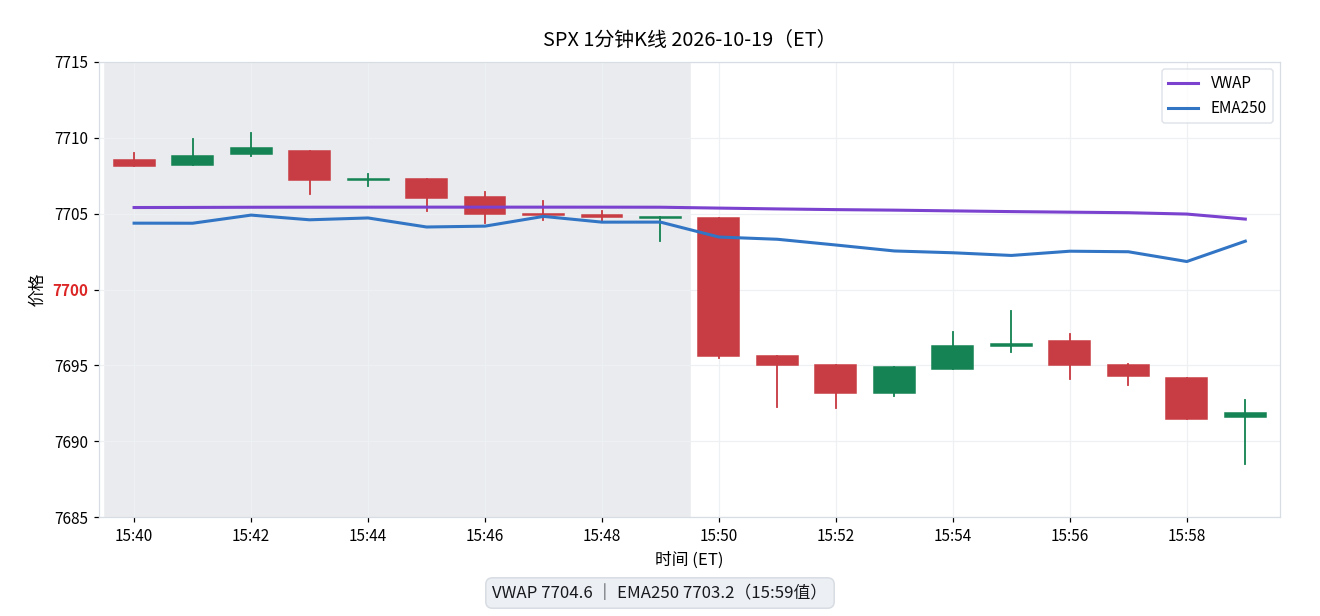
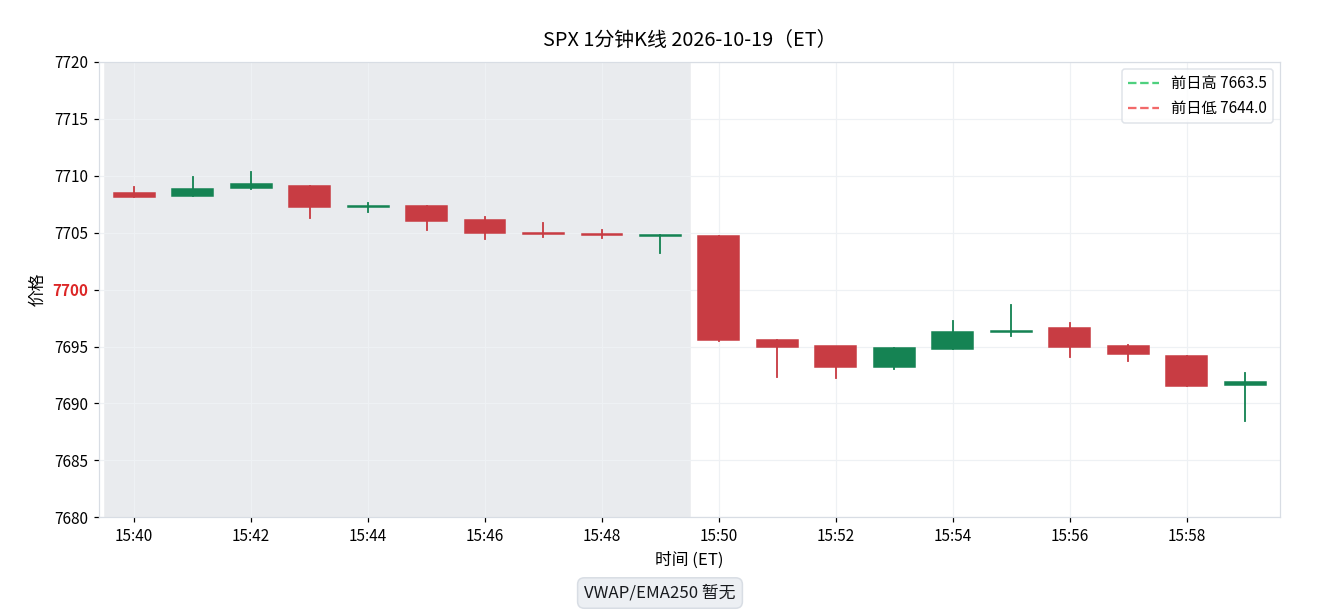
restore spx-10min days.json date list

diff --git a/tsla/index.html b/tsla/index.html
@@ -54,55 +54,55 @@
 <a class="day-tab" role="tab" data-target="day-1014" aria-selected="false" href="#day-1014">10/14 周三 <span class="tab-move down">7.57</span></a>
 <a class="day-tab" role="tab" data-target="day-1013" aria-selected="false" href="#day-1013">10/13 周二 <span class="tab-move up">5.75</span></a>
 <a class="day-tab" role="tab" data-target="day-1012" aria-selected="false" href="#day-1012">10/12 周一 <span class="tab-move down">5.03</span></a>
-<a class="day-tab" role="tab" data-target="day-1009" aria-selected="false" href="#day-1009">10/9 周五</a>
-<a class="day-tab" role="tab" data-target="day-1008" aria-selected="false" href="#day-1008">10/8 周四 <span class="tab-solar">寒露</span></a>
-<a class="day-tab" role="tab" data-target="day-1007" aria-selected="false" href="#day-1007">10/7 周三</a>
-<a class="day-tab" role="tab" data-target="day-1006" aria-selected="false" href="#day-1006">10/6 周二</a>
-<a class="day-tab" role="tab" data-target="day-1005" aria-selected="false" href="#day-1005">10/5 周一</a>
-<a class="day-tab" role="tab" data-target="day-1002" aria-selected="false" href="#day-1002">10/2 周五 <span class="tab-event">非农</span></a>
-<a class="day-tab" role="tab" data-target="day-1001" aria-selected="false" href="#day-1001">10/1 周四</a>
-<a class="day-tab" role="tab" data-target="day-0930" aria-selected="false" href="#day-0930">9/30 周三</a>
-<a class="day-tab" role="tab" data-target="day-0929" aria-selected="false" href="#day-0929">9/29 周二</a>
-<a class="day-tab" role="tab" data-target="day-0928" aria-selected="false" href="#day-0928">9/28 周一</a>
-<a class="day-tab" role="tab" data-target="day-0925" aria-selected="false" href="#day-0925">9/25 周五</a>
-<a class="day-tab" role="tab" data-target="day-0924" aria-selected="false" href="#day-0924">9/24 周四</a>
-<a class="day-tab" role="tab" data-target="day-0923" aria-selected="false" href="#day-0923">9/23 周三 <span class="tab-solar">秋分</span></a>
-<a class="day-tab" role="tab" data-target="day-0922" aria-selected="false" href="#day-0922">9/22 周二</a>
-<a class="day-tab" role="tab" data-target="day-0921" aria-selected="false" href="#day-0921">9/21 周一</a>
-<a class="day-tab" role="tab" data-target="day-0918" aria-selected="false" href="#day-0918">9/18 周五 <span class="tab-event">OPEX</span></a>
-<a class="day-tab" role="tab" data-target="day-0917" aria-selected="false" href="#day-0917">9/17 周四</a>
-<a class="day-tab" role="tab" data-target="day-0916" aria-selected="false" href="#day-0916">9/16 周三 <span class="tab-event">FOMC</span></a>
-<a class="day-tab" role="tab" data-target="day-0915" aria-selected="false" href="#day-0915">9/15 周二</a>
-<a class="day-tab" role="tab" data-target="day-0914" aria-selected="false" href="#day-0914">9/14 周一</a>
-<a class="day-tab" role="tab" data-target="day-0911" aria-selected="false" href="#day-0911">9/11 周五</a>
-<a class="day-tab" role="tab" data-target="day-0910" aria-selected="false" href="#day-0910">9/10 周四</a>
-<a class="day-tab" role="tab" data-target="day-0909" aria-selected="false" href="#day-0909">9/9 周三</a>
-<a class="day-tab" role="tab" data-target="day-0908" aria-selected="false" href="#day-0908">9/8 周二</a>
-<a class="day-tab" role="tab" data-target="day-0904" aria-selected="false" href="#day-0904">9/4 周五</a>
-<a class="day-tab" role="tab" data-target="day-0903" aria-selected="false" href="#day-0903">9/3 周四</a>
-<a class="day-tab" role="tab" data-target="day-0902" aria-selected="false" href="#day-0902">9/2 周三</a>
-<a class="day-tab" role="tab" data-target="day-0901" aria-selected="false" href="#day-0901">9/1 周二</a>
-<a class="day-tab" role="tab" data-target="day-0831" aria-selected="false" href="#day-0831">8/31 周一</a>
-<a class="day-tab" role="tab" data-target="day-0828" aria-selected="false" href="#day-0828">8/28 周五</a>
-<a class="day-tab" role="tab" data-target="day-0827" aria-selected="false" href="#day-0827">8/27 周四</a>
-<a class="day-tab" role="tab" data-target="day-0826" aria-selected="false" href="#day-0826">8/26 周三</a>
-<a class="day-tab" role="tab" data-target="day-0825" aria-selected="false" href="#day-0825">8/25 周二</a>
-<a class="day-tab" role="tab" data-target="day-0824" aria-selected="false" href="#day-0824">8/24 周一</a>
-<a class="day-tab" role="tab" data-target="day-0821" aria-selected="false" href="#day-0821">8/21 周五 <span class="tab-event">OPEX</span></a>
-<a class="day-tab" role="tab" data-target="day-0820" aria-selected="false" href="#day-0820">8/20 周四</a>
-<a class="day-tab" role="tab" data-target="day-0819" aria-selected="false" href="#day-0819">8/19 周三</a>
-<a class="day-tab" role="tab" data-target="day-0818" aria-selected="false" href="#day-0818">8/18 周二</a>
-<a class="day-tab" role="tab" data-target="day-0817" aria-selected="false" href="#day-0817">8/17 周一</a>
-<a class="day-tab" role="tab" data-target="day-0814" aria-selected="false" href="#day-0814">8/14 周五</a>
-<a class="day-tab" role="tab" data-target="day-0813" aria-selected="false" href="#day-0813">8/13 周四</a>
-<a class="day-tab" role="tab" data-target="day-0812" aria-selected="false" href="#day-0812">8/12 周三</a>
-<a class="day-tab" role="tab" data-target="day-0811" aria-selected="false" href="#day-0811">8/11 周二</a>
-<a class="day-tab" role="tab" data-target="day-0810" aria-selected="false" href="#day-0810">8/10 周一</a>
-<a class="day-tab" role="tab" data-target="day-0807" aria-selected="false" href="#day-0807">8/7 周五 <span class="tab-solar">立秋</span></a>
-<a class="day-tab" role="tab" data-target="day-0806" aria-selected="false" href="#day-0806">8/6 周四</a>
-<a class="day-tab" role="tab" data-target="day-0805" aria-selected="false" href="#day-0805">8/5 周三</a>
-<a class="day-tab" role="tab" data-target="day-0804" aria-selected="false" href="#day-0804">8/4 周二</a>
-<a class="day-tab" role="tab" data-target="day-0803" aria-selected="false" href="#day-0803">8/3 周一</a>
+<a class="day-tab" role="tab" data-target="day-1009" aria-selected="false" href="#day-1009">10/9 周五 <span class="tab-move up">6.57</span></a>
+<a class="day-tab" role="tab" data-target="day-1008" aria-selected="false" href="#day-1008">10/8 周四 <span class="tab-solar">寒露</span> <span class="tab-move up">5.23</span></a>
+<a class="day-tab" role="tab" data-target="day-1007" aria-selected="false" href="#day-1007">10/7 周三 <span class="tab-move up">3.47</span></a>
+<a class="day-tab" role="tab" data-target="day-1006" aria-selected="false" href="#day-1006">10/6 周二 <span class="tab-move up">1.61</span></a>
+<a class="day-tab" role="tab" data-target="day-1005" aria-selected="false" href="#day-1005">10/5 周一 <span class="tab-move up">14.01</span></a>
+<a class="day-tab" role="tab" data-target="day-1002" aria-selected="false" href="#day-1002">10/2 周五 <span class="tab-event">非农</span> <span class="tab-move up">6.02</span></a>
+<a class="day-tab" role="tab" data-target="day-1001" aria-selected="false" href="#day-1001">10/1 周四 <span class="tab-move up">4.27</span></a>
+<a class="day-tab" role="tab" data-target="day-0930" aria-selected="false" href="#day-0930">9/30 周三 <span class="tab-move up">6.78</span></a>
+<a class="day-tab" role="tab" data-target="day-0929" aria-selected="false" href="#day-0929">9/29 周二 <span class="tab-move up">2.90</span></a>
+<a class="day-tab" role="tab" data-target="day-0928" aria-selected="false" href="#day-0928">9/28 周一 <span class="tab-move up">7.64</span></a>
+<a class="day-tab" role="tab" data-target="day-0925" aria-selected="false" href="#day-0925">9/25 周五 <span class="tab-move up">5.79</span></a>
+<a class="day-tab" role="tab" data-target="day-0924" aria-selected="false" href="#day-0924">9/24 周四 <span class="tab-move up">5.71</span></a>
+<a class="day-tab" role="tab" data-target="day-0923" aria-selected="false" href="#day-0923">9/23 周三 <span class="tab-solar">秋分</span> <span class="tab-move up">6.14</span></a>
+<a class="day-tab" role="tab" data-target="day-0922" aria-selected="false" href="#day-0922">9/22 周二 <span class="tab-move up">4.68</span></a>
+<a class="day-tab" role="tab" data-target="day-0921" aria-selected="false" href="#day-0921">9/21 周一 <span class="tab-move up">4.08</span></a>
+<a class="day-tab" role="tab" data-target="day-0918" aria-selected="false" href="#day-0918">9/18 周五 <span class="tab-event">OPEX</span> <span class="tab-move up">7.24</span></a>
+<a class="day-tab" role="tab" data-target="day-0917" aria-selected="false" href="#day-0917">9/17 周四 <span class="tab-move up">7.89</span></a>
+<a class="day-tab" role="tab" data-target="day-0916" aria-selected="false" href="#day-0916">9/16 周三 <span class="tab-event">FOMC</span> <span class="tab-move up">8.34</span></a>
+<a class="day-tab" role="tab" data-target="day-0915" aria-selected="false" href="#day-0915">9/15 周二 <span class="tab-move up">6.67</span></a>
+<a class="day-tab" role="tab" data-target="day-0914" aria-selected="false" href="#day-0914">9/14 周一 <span class="tab-move up">5.75</span></a>
+<a class="day-tab" role="tab" data-target="day-0911" aria-selected="false" href="#day-0911">9/11 周五 <span class="tab-move up">2.77</span></a>
+<a class="day-tab" role="tab" data-target="day-0910" aria-selected="false" href="#day-0910">9/10 周四 <span class="tab-move up">7.70</span></a>
+<a class="day-tab" role="tab" data-target="day-0909" aria-selected="false" href="#day-0909">9/9 周三 <span class="tab-move up">4.95</span></a>
+<a class="day-tab" role="tab" data-target="day-0908" aria-selected="false" href="#day-0908">9/8 周二 <span class="tab-move up">11.13</span></a>
+<a class="day-tab" role="tab" data-target="day-0904" aria-selected="false" href="#day-0904">9/4 周五 <span class="tab-move up">7.24</span></a>
+<a class="day-tab" role="tab" data-target="day-0903" aria-selected="false" href="#day-0903">9/3 周四 <span class="tab-move up">12.32</span></a>
+<a class="day-tab" role="tab" data-target="day-0902" aria-selected="false" href="#day-0902">9/2 周三 <span class="tab-move up">5.25</span></a>
+<a class="day-tab" role="tab" data-target="day-0901" aria-selected="false" href="#day-0901">9/1 周二 <span class="tab-move up">6.04</span></a>
+<a class="day-tab" role="tab" data-target="day-0831" aria-selected="false" href="#day-0831">8/31 周一 <span class="tab-move up">15.24</span></a>
+<a class="day-tab" role="tab" data-target="day-0828" aria-selected="false" href="#day-0828">8/28 周五 <span class="tab-move up">10.66</span></a>
+<a class="day-tab" role="tab" data-target="day-0827" aria-selected="false" href="#day-0827">8/27 周四 <span class="tab-move up">7.83</span></a>
+<a class="day-tab" role="tab" data-target="day-0826" aria-selected="false" href="#day-0826">8/26 周三 <span class="tab-move up">5.07</span></a>
+<a class="day-tab" role="tab" data-target="day-0825" aria-selected="false" href="#day-0825">8/25 周二 <span class="tab-move up">6.93</span></a>
+<a class="day-tab" role="tab" data-target="day-0824" aria-selected="false" href="#day-0824">8/24 周一 <span class="tab-move up">9.33</span></a>
+<a class="day-tab" role="tab" data-target="day-0821" aria-selected="false" href="#day-0821">8/21 周五 <span class="tab-event">OPEX</span> <span class="tab-move up">16.80</span></a>
+<a class="day-tab" role="tab" data-target="day-0820" aria-selected="false" href="#day-0820">8/20 周四 <span class="tab-move up">6.51</span></a>
+<a class="day-tab" role="tab" data-target="day-0819" aria-selected="false" href="#day-0819">8/19 周三 <span class="tab-move up">12.05</span></a>
+<a class="day-tab" role="tab" data-target="day-0818" aria-selected="false" href="#day-0818">8/18 周二 <span class="tab-move up">4.99</span></a>
+<a class="day-tab" role="tab" data-target="day-0817" aria-selected="false" href="#day-0817">8/17 周一 <span class="tab-move up">3.53</span></a>
+<a class="day-tab" role="tab" data-target="day-0814" aria-selected="false" href="#day-0814">8/14 周五 <span class="tab-move up">13.55</span></a>
+<a class="day-tab" role="tab" data-target="day-0813" aria-selected="false" href="#day-0813">8/13 周四 <span class="tab-move up">11.45</span></a>
+<a class="day-tab" role="tab" data-target="day-0812" aria-selected="false" href="#day-0812">8/12 周三 <span class="tab-move up">6.34</span></a>
+<a class="day-tab" role="tab" data-target="day-0811" aria-selected="false" href="#day-0811">8/11 周二 <span class="tab-move up">4.34</span></a>
+<a class="day-tab" role="tab" data-target="day-0810" aria-selected="false" href="#day-0810">8/10 周一 <span class="tab-move up">3.18</span></a>
+<a class="day-tab" role="tab" data-target="day-0807" aria-selected="false" href="#day-0807">8/7 周五 <span class="tab-solar">立秋</span> <span class="tab-move up">10.69</span></a>
+<a class="day-tab" role="tab" data-target="day-0806" aria-selected="false" href="#day-0806">8/6 周四 <span class="tab-move up">4.45</span></a>
+<a class="day-tab" role="tab" data-target="day-0805" aria-selected="false" href="#day-0805">8/5 周三 <span class="tab-move up">4.91</span></a>
+<a class="day-tab" role="tab" data-target="day-0804" aria-selected="false" href="#day-0804">8/4 周二 <span class="tab-move up">7.34</span></a>
+<a class="day-tab" role="tab" data-target="day-0803" aria-selected="false" href="#day-0803">8/3 周一 <span class="tab-move up">9.50</span></a>
 </nav>
 <button class="tabs-toggle" type="button">展开全部 55 个日期 ▾</button>
 <script>(function(){var nav=document.querySelector('.day-tabs');if(!nav)return;var btn=document.querySelector('.tabs-toggle');var n=55;nav.classList.add('collapsed');function setC(c){nav.classList.toggle('collapsed',c);btn.innerHTML=c?('展开全部 '+n+' 个日期 \u25be'):'收起 \u25b4';}btn.onclick=function(){setC(!nav.classList.contains('collapsed'));};})();</script>

diff --git a/scripts/publish.py b/scripts/publish.py
@@ -132,7 +132,7 @@ def _emphasize_round_levels(ax, force_round_ticks=False):
             lbl.set_weight("bold")
 
 
-def draw_chart(ds, bars, vwap_seg, ema_seg, out_path):
+def draw_chart(ds, bars, vwap_seg, ema_seg, out_path, prev_h=None, prev_l=None):
     import matplotlib
     matplotlib.use("Agg")
     import matplotlib.pyplot as plt
@@ -169,6 +169,23 @@ def draw_chart(ds, bars, vwap_seg, ema_seg, out_path):
     if ema_seg:
         ax.plot([i for i, _ in ema_seg], [v for _, v in ema_seg],
                 color=EMA_C, lw=2.0, label="EMA250", zorder=4)
+    # 前日高低线 (模板标配)
+    if prev_h:
+        ax.axhline(prev_h, color="#22c55e", ls="--", lw=1.5, alpha=0.8, label=f"前日高 {prev_h:.1f}", zorder=2)
+    if prev_l:
+        ax.axhline(prev_l, color="#ef4444", ls="--", lw=1.5, alpha=0.8, label=f"前日低 {prev_l:.1f}", zorder=2)
+    # 纵坐标收紧: 按实际数据范围, 不用过宽 (10分钟窗口价格波动小)
+    all_lows = [b["l"] for b in bars]
+    all_highs = [b["h"] for b in bars]
+    if vwap_seg:
+        all_lows += [v for _, v in vwap_seg]
+        all_highs += [v for _, v in vwap_seg]
+    if ema_seg:
+        all_lows += [v for _, v in ema_seg]
+        all_highs += [v for _, v in ema_seg]
+    data_lo, data_hi = min(all_lows), max(all_highs)
+    pad = max((data_hi - data_lo) * 0.25, 3.0)  # 上下各留 25% 或至少 3 点
+    ax.set_ylim(data_lo - pad, data_hi + pad)
     ax.set_xlim(-0.6, len(bars) - 0.4)
     ax.set_xticks(list(range(0, len(bars), 2)))
     ax.set_xticklabels([bars[i]["t"] for i in range(0, len(bars), 2)],
@@ -594,7 +611,8 @@ def main(ds):
         chart_rel = f"data/charts/spx_1m_{mmdd}.png"
         if bars:
             vl, el = draw_chart(ds, bars, vwap_seg, ema_seg,
-                               os.path.join(CHARTS, f"spx_1m_{mmdd}.png"))
+                               os.path.join(CHARTS, f"spx_1m_{mmdd}.png"),
+                               prev_h=out.get("prev_h"), prev_l=out.get("prev_l"))
             out["chart_png"] = chart_rel
             out["vwap"] = round(vl, 1) if vl else None
             out["ema250"] = round(el, 1) if el else None
